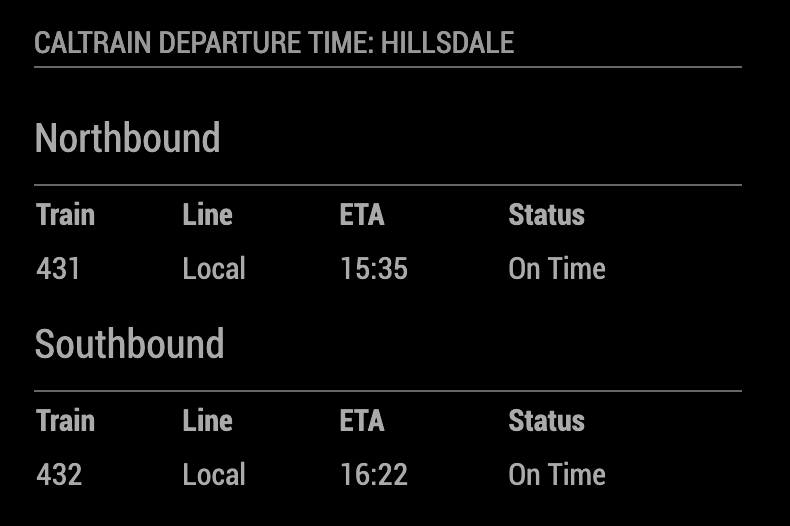
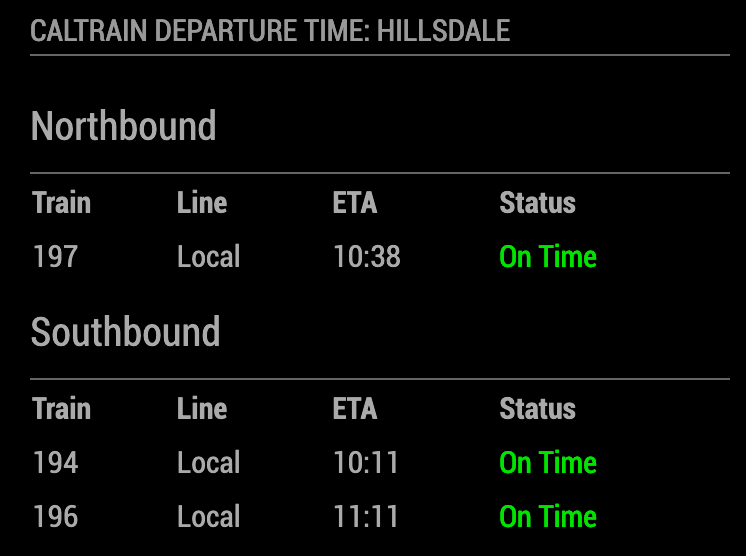
style updates (#3)
* add color to css

* add option to highlight certain trains

* update readme images

* delay screenshot update

diff --git a/MMM-Caltrain.js b/MMM-Caltrain.js
@@ -10,6 +10,7 @@ Module.register("MMM-Caltrain", {
         showDelayedTrains: true, // if true, shows which trains are delayed
         showDelayWarning: true, // if true, shows a warning when trains are delayd
         timeFormat: 24, // default 24 hour time
+        trains: [], // list of trains to bolden
         updateInterval: 180000, // 3 minutes
     },
 
@@ -115,6 +116,9 @@ Module.register("MMM-Caltrain", {
         for (var i = 0, len = trains.length; i < len; i++) {
             var t = trains[i];
             var row = document.createElement("tr");
+            if (this.config.trains.includes(Number(t.train))) {
+                row.className = "highlightTrain";
+            }
             body.appendChild(row);
 
             var trainName = document.createElement("td");
@@ -135,11 +139,16 @@ Module.register("MMM-Caltrain", {
             row.appendChild(trainArrival);
 
             var trainDelay = document.createElement("td");
-            trainDelay.className = "trainDelay";
             if (t.delay <= 0) {
                 trainDelay.innerHTML = "On Time";
+                trainDelay.className = "onTime";
             } else {
                 trainDelay.innerHTML = t.delay + " min late";
+                if (t.delay > 10) {
+                    trainDelay.className = "majorDelay";
+                } else {
+                    trainDelay.className = "delayed";
+                }
             }
             row.appendChild(trainDelay);
         }

diff --git a/MMM-Caltrain.css b/MMM-Caltrain.css
@@ -14,3 +14,20 @@
 .scheduleBody {
     font-size: 15px;
 }
+
+.highlightTrain {
+    color: #66ccff;
+    font-weight: bold;
+}
+
+.onTime {
+    color: #00e400;
+}
+
+.delayed {
+    color: #cc6600;
+}
+
+.majorDelay {
+    color: #cc0000;
+}

diff --git a/README.md b/README.md
@@ -27,17 +27,18 @@ The `stationName` value must be one of those listed in [caltrain-stations.txt](c
 
 ### All Options
 
-| Option                   | Type    | Default | Description                                                                                                                                                                                                                                                                                                   |
-|--------------------------|---------|---------|---------------------------------------------------------------------------------------------------------------------------------------------------------------------------------------------------------------------------------------------------------------------------------------------------------------|
-| `key` (required)         | string  | null    | API key for 511.org                                                                                                                                                                                                                                                                                           |      
-| `stationName` (required) | string  | null    | Name of the station to watch. Must be one of those listed in [caltrain-stations.txt](caltrain-stations.txt)                                                                                                                                                                                                   |
-| `delayThreshold`         | integer | 600000  | Time in milliseconds that a train must be behind schedule by for it to be reported as "delayed". Default value is 10 minutes.                                                                                                                                                                                 |
-| `direction`              | string  | ""      | Selects which trains to display for the given `stationName`. Acceptable values are `north` or `south`. Any other value will resolve to both north and south. Default value is both.                                                                                                                           |
-| `requestDelays`          | bool    | true    | If true, requests delayed trains info.                                                                                                                                                                                                                                                                        |
-| `showDelayedTrains`      | bool    | true    | If true, shows which trains have been reported as delayed.                                                                                                                                                                                                                                                    |
-| `showDelayedWarning`     | bool    | true    | If true, shows the warning message when delayed trains are detected.                                                                                                                                                                                                                                          |
-| `timeFormat`             | integer | 24      | The form of time notation that will be used. Possible values are `12` or `24`.                                                                                                                                                                                                                                |
-| `updateInterval`         | integer | 180000  | Time in milliseconds between status updates. Default is 3 minutes. This number was chosen because the API limits 60 requests per hour, and each interval the module makes 3 requests. Be careful lowering this value unless you modify the other options to reduce the number of requests sent each interval. |
+| Option                   | Type      | Default | Description                                                                                                                                                                                                                                                                                                   |
+|--------------------------|-----------|---------|---------------------------------------------------------------------------------------------------------------------------------------------------------------------------------------------------------------------------------------------------------------------------------------------------------------|
+| `key` (required)         | string    | null    | API key for 511.org                                                                                                                                                                                                                                                                                           |      
+| `stationName` (required) | string    | null    | Name of the station to watch. Must be one of those listed in [caltrain-stations.txt](caltrain-stations.txt)                                                                                                                                                                                                   |
+| `delayThreshold`         | integer   | 600000  | Time in milliseconds that a train must be behind schedule by for it to be reported as "delayed". Default value is 10 minutes.                                                                                                                                                                                 |
+| `direction`              | string    | ""      | Selects which trains to display for the given `stationName`. Acceptable values are `north` or `south`. Any other value will resolve to both north and south. Default value is both.                                                                                                                           |
+| `requestDelays`          | bool      | true    | If true, requests delayed trains info.                                                                                                                                                                                                                                                                        |
+| `showDelayedTrains`      | bool      | true    | If true, shows which trains have been reported as delayed.                                                                                                                                                                                                                                                    |
+| `showDelayedWarning`     | bool      | true    | If true, shows the warning message when delayed trains are detected.                                                                                                                                                                                                                                          |
+| `timeFormat`             | integer   | 24      | The form of time notation that will be used. Possible values are `12` or `24`.                                                                                                                                                                                                                                |
+| `trains`                 | int array | []      | Array of trains to highlight. Useful for displaying trains frequently taken by the user                                                                                                                                                                                                                       |
+| `updateInterval`         | integer   | 180000  | Time in milliseconds between status updates. Default is 3 minutes. This number was chosen because the API limits 60 requests per hour, and each interval the module makes 3 requests. Be careful lowering this value unless you modify the other options to reduce the number of requests sent each interval. |
 
 Example configuration file: 
 ```
@@ -56,6 +57,9 @@ Example configuration file:
 
 #### Normal operating conditions
 ![Normal station status](screenshots/normal.png)
+
+#### Normal operation with trains defined 
+![train highlights](screenshots/trainHighlighting.png)
 
 #### Delayed trains detected (with all delay options set to true)
 ![Delays detected](screenshots/delays.png)
